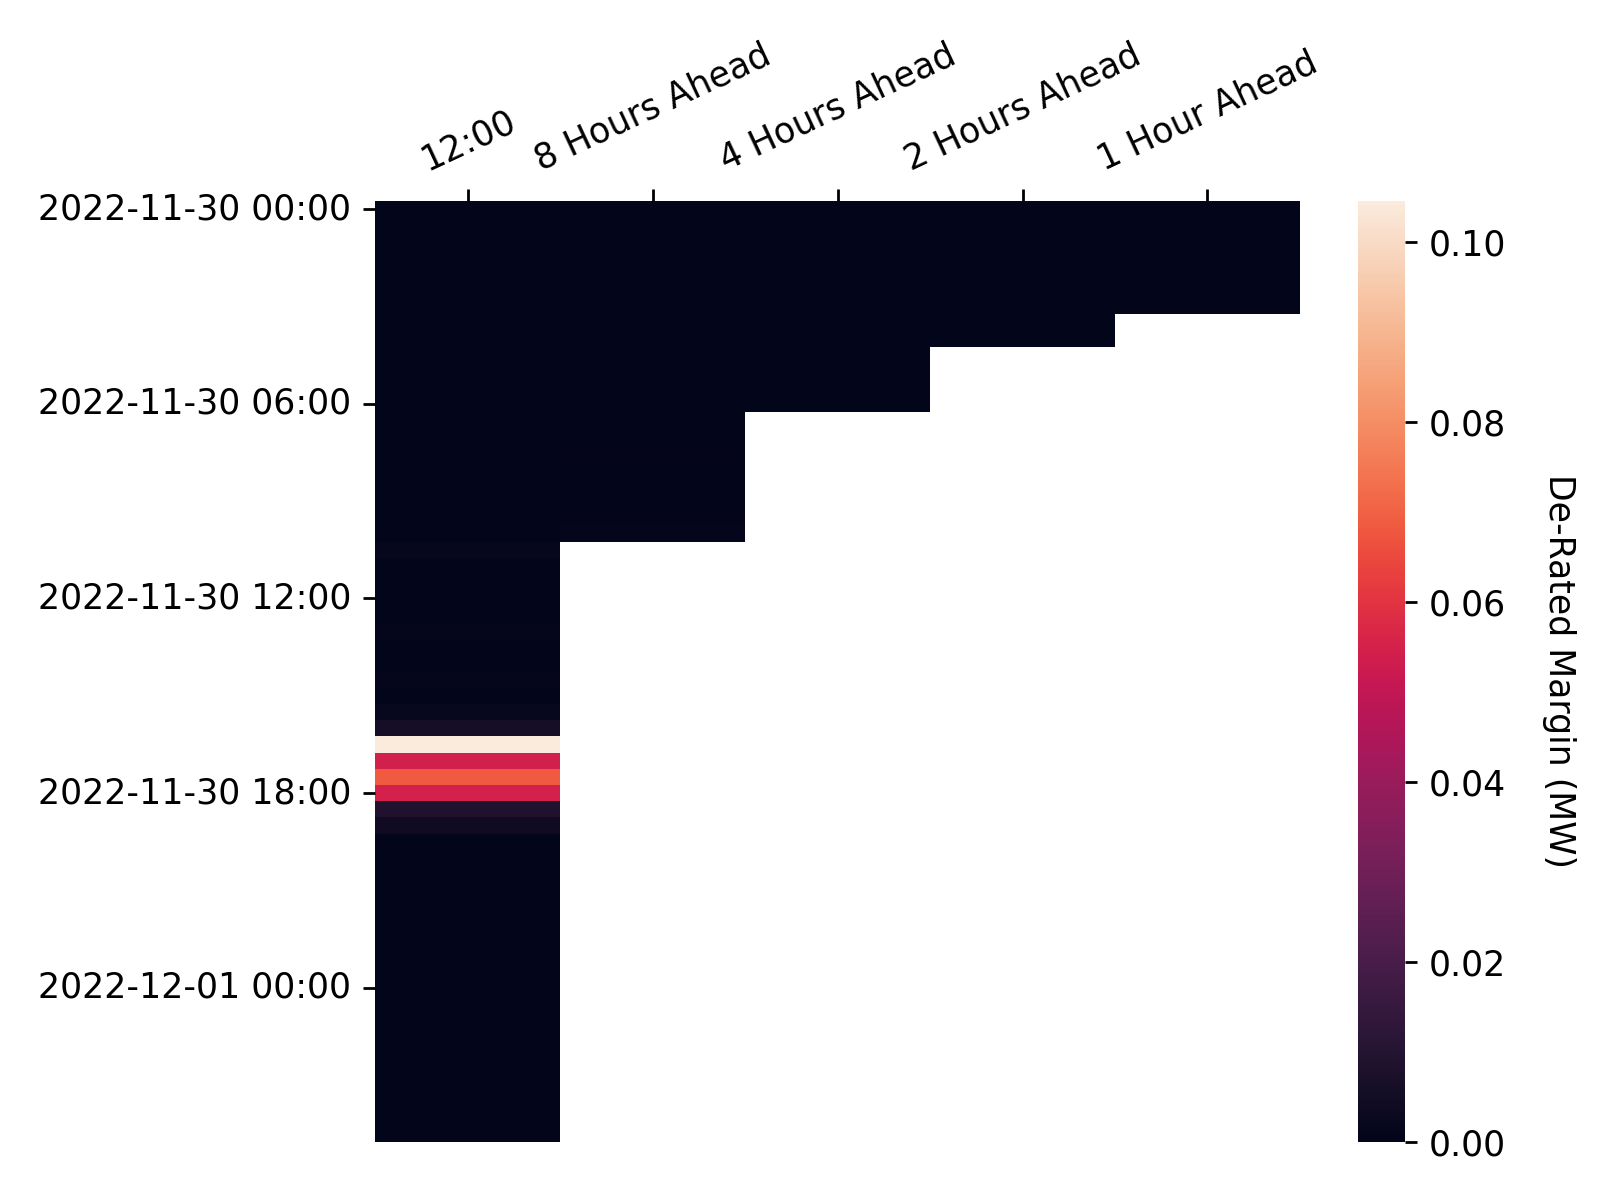
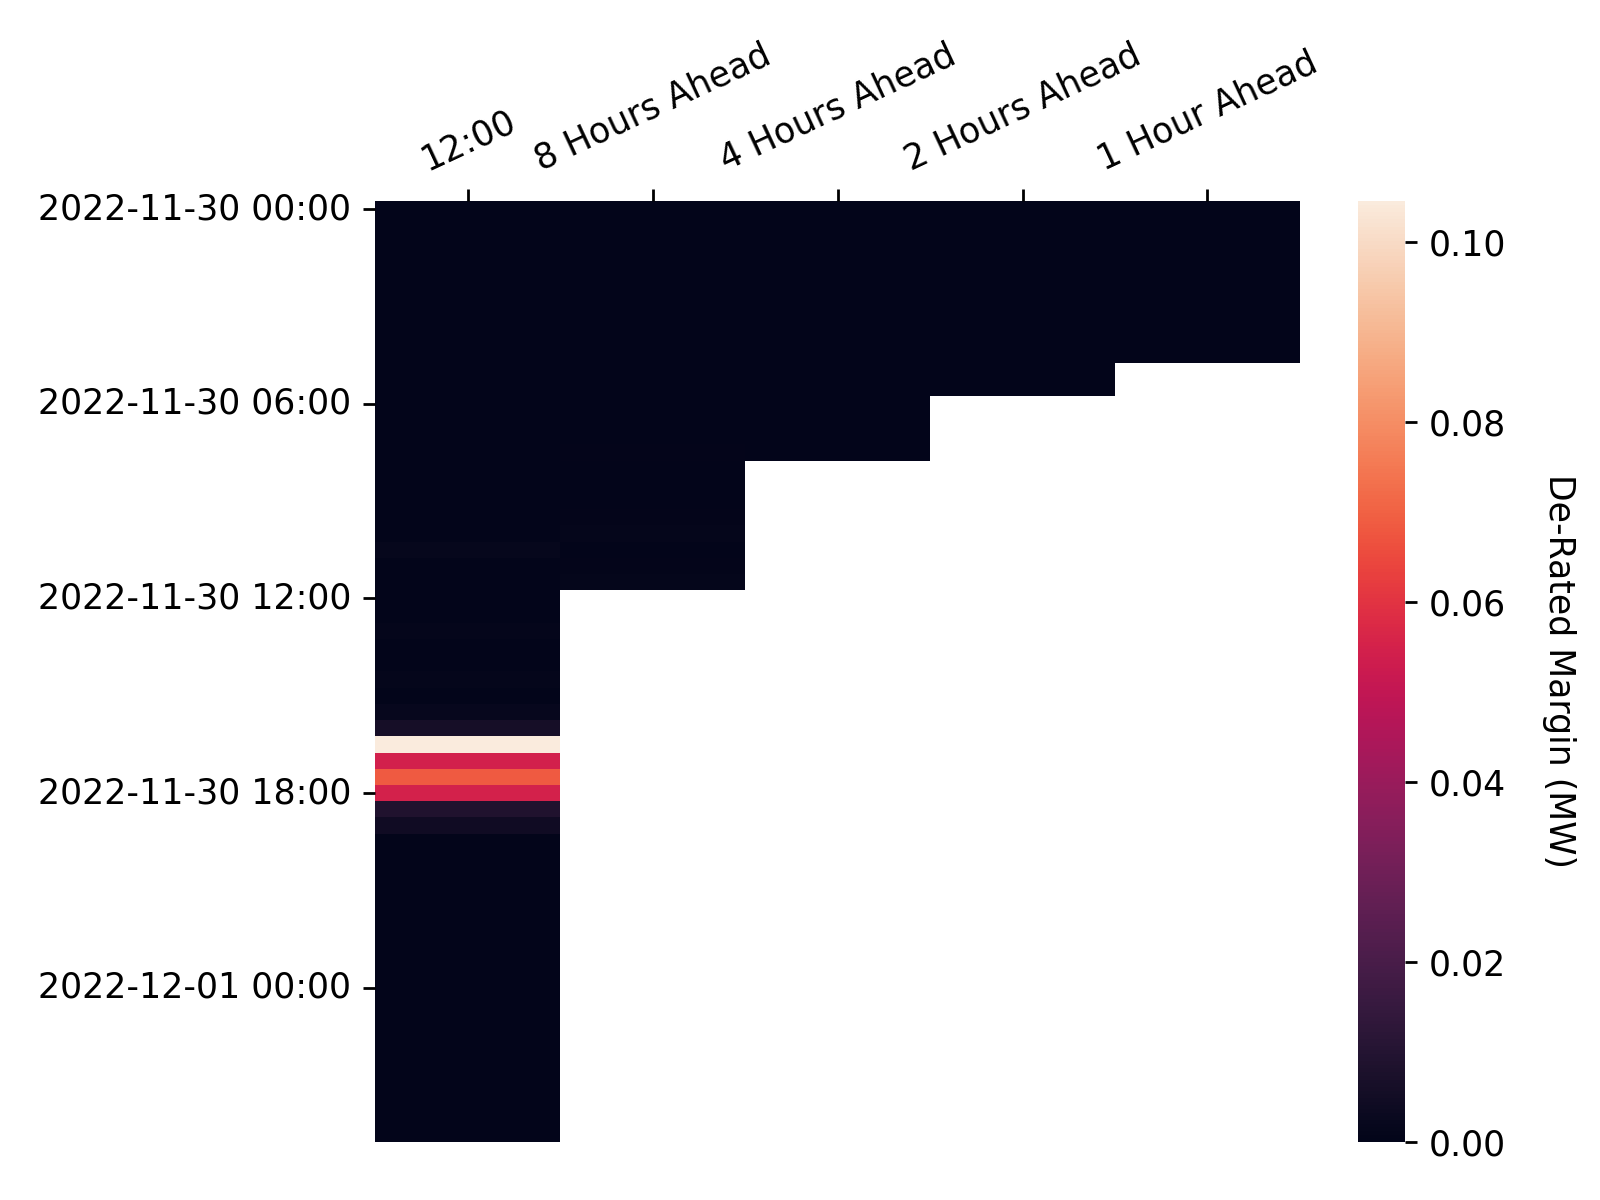
Apply automatic changes

Changed region(s): [[0.4688, 0.2467, 0.8125, 0.4008], [0.3438, 0.4317, 0.4688, 0.4933]]

diff --git a/docs/js/map.js b/docs/js/map.js
@@ -144,7 +144,7 @@ document.addEventListener("DOMContentLoaded", function() {
                 follow: 1
             });
             mymap.addControl(sliderControl);
-            sliderControl.startSlider(334);
+            sliderControl.startSlider(335);
         });
     });
 });

diff --git a/docs/visualisations.md b/docs/visualisations.md
@@ -60,7 +60,7 @@ In each settlement period the system operator publishes the de-rated margin fore
 * At 1200 hours on each calendar day for all Settlement Periods for which Gate Closure has not yet passed and which occur within the current Operational Day or the following Operational Day; and
 * At eight, four, two and one hour(s) prior to the beginning of the Settlement Period to which the De-Rated Margin Forecast relates.
 
-These figures will be updated on an hourly basis, the last update was at: 2022-11-30 03:05
+These figures will be updated on an hourly basis, the last update was at: 2022-11-30 03:45
 
 <br>
 
@@ -83,7 +83,7 @@ The following heatmap shows how the more recent de-rated margin forecasts deviat
 
 ### Power Output Map
 
-Last Updated: 2022-11-30 03:05
+Last Updated: 2022-11-30 03:45
 
 This map shows the power output of individual plants connected to the transmission grid as stated in their most recent Physical Notifications. This data can be retrieved through the *PHYBMDATA* BMRS stream, the out-turn data can be viewed one week later through the *B1610* stream. The scrollbar at the top of the map can be used to view how the generation sources have changed their output over the last week, the layer control can be used to toggle on/off the transmission network, and the plants themselves can be clicked to reveal additional information. The plant location data used in this map has been taking from a sister project, [the Power Station Dictionary](https://osuked.github.io/Power-Station-Dictionary/), which aims to link between data about individual power plants.
 
